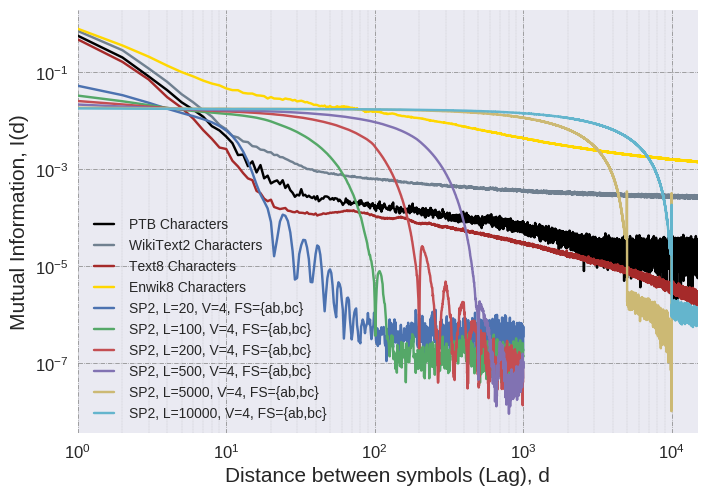
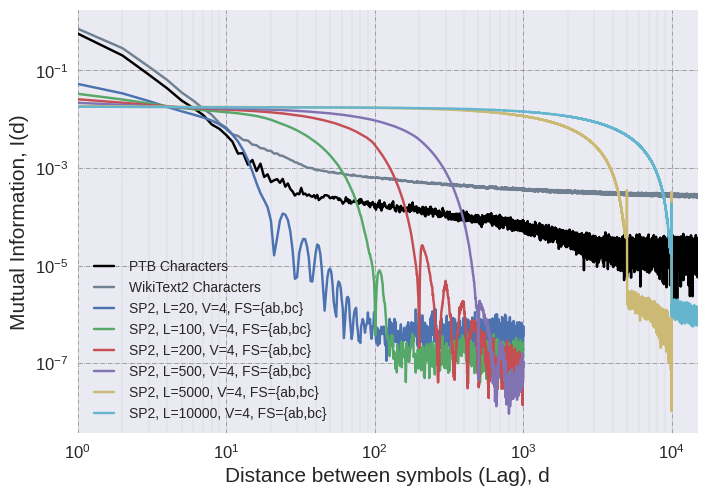
Up

diff --git a/paper_related/spk/plot_sp.py b/paper_related/spk/plot_sp.py
@@ -48,11 +48,12 @@ for filename in filenames:
 
 # red dashes, blue squares and green triangles
 with plt.style.context(('seaborn')):
+    ax = plt.axes()
 
     plt.loglog(np.arange(1,len(all_mi[24])+1), all_mi[24], color='black', label="PTB Characters")
     plt.loglog(np.arange(1,len(all_mi[25])+1), all_mi[25], color='slategrey', label="WikiText2 Characters")
-    plt.loglog(np.arange(1,len(all_mi[26])+1), all_mi[26], color='brown', label="Text8 Characters")
-    plt.loglog(np.arange(1,len(all_mi[27])+1), all_mi[27], color='gold', label="Enwik8 Characters")
+    # plt.loglog(np.arange(1,len(all_mi[26])+1), all_mi[26], color='brown', label="Text8 Characters")
+    # plt.loglog(np.arange(1,len(all_mi[27])+1), all_mi[27], color='gold', label="Enwik8 Characters")
     plt.loglog(np.arange(1,len(all_mi[0])+1), all_mi[0], label="SP2, L=20, V=4, FS={ab,bc}")
     plt.loglog(np.arange(1,len(all_mi[1])+1), all_mi[1], label="SP2, L=100, V=4, FS={ab,bc}")
     plt.loglog(np.arange(1,len(all_mi[2])+1), all_mi[2], label="SP2, L=200, V=4, FS={ab,bc}")
@@ -108,7 +109,6 @@ with plt.style.context(('seaborn')):
     plt.grid(True)
     plt.grid(which='major', linestyle='-.', linewidth='0.5', color='grey')
     plt.grid(which='minor', linestyle=':', linewidth='0.2', color='grey')
-    ax = plt.axes()
     ax.set_xlim(1, 15000)
     # ax.set_ylim(4.3e-11, 0.65)
     print(ax.get_ylim())

diff --git a/paper_related/broken_power_law.py b/paper_related/broken_power_law.py
@@ -364,7 +364,7 @@ with plt.style.context(('seaborn')):
     ###################################################################################################################
     # Wiki Sample #2
     ###################################################################################################################
-    break_point = 2000
+    break_point = 4
     dataset = 14
     data = all_mi[dataset]
     alpha_1 = 0.002305
